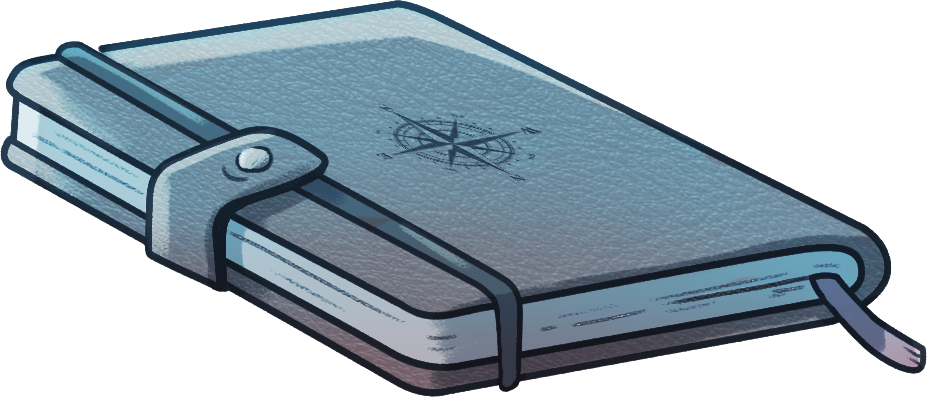
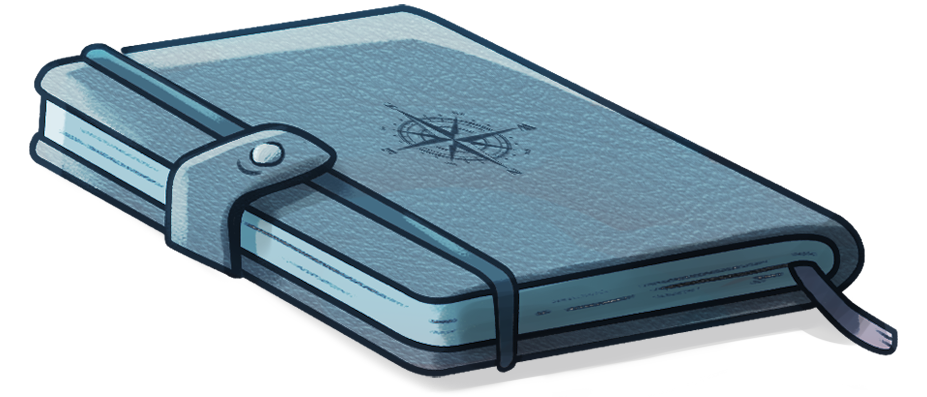
Hero Section Update

diff --git a/src/components/Hero/Hero.tsx b/src/components/Hero/Hero.tsx
@@ -115,10 +115,18 @@ export const Hero: React.FC<HeroProps> = ({ revealed }) => {
       // layout box; with overflow-hidden still on, that offset content gets
       // clipped instead of shown. ZykCoding's own reveal clipping is handled
       // locally by its own wrapper div below, so this doesn't affect it.
-      className="relative flex flex-col items-center justify-start pt-24 md:pt-16 bg-[#252E3D]"
+      className="relative flex flex-col items-center justify-start pt-24 md:pt-16 bg-[#252E3D] overflow-hidden"
       style={{ scrollMarginTop: "var(--nav-height, 5rem)" }}
     >
-      <div className="flex flex-col w-full max-w-350 px-6 sm:px-10 md:px-20">
+      {/* Decorative background pattern — sits behind all hero content. */}
+      <img
+        src="/assets/ui/hero-pattern.png"
+        alt=""
+        aria-hidden="true"
+        className="pointer-events-none absolute inset-x-0 -top-14 z-0 h-full w-full object-cover opacity-10 scale-80"
+      />
+
+      <div className="relative z-10 flex flex-col w-full max-w-350 px-6 sm:px-10 md:px-20">
         {/* H1 entrance: invisible while loading, pops in once revealed, holds,
             then slides up to its resting position. */}
         <motion.div
@@ -182,7 +190,7 @@ export const Hero: React.FC<HeroProps> = ({ revealed }) => {
             The inner motion.div is what actually moves (translateY + opacity),
             clipped by this box's `overflow-hidden`, so it reads as rising up
             into view against a backdrop that's already fully in place. */}
-        <div className="relative z-0 mx-auto w-full max-w-270 mt-10 overflow-hidden ">
+        <div className="relative z-0 mx-auto w-full max-w-270 mr-10 mt-10 overflow-hidden ">
           <motion.div
             initial={reduce ? { opacity: 0 } : { y: "100%", opacity: 0 }}
             animate={
